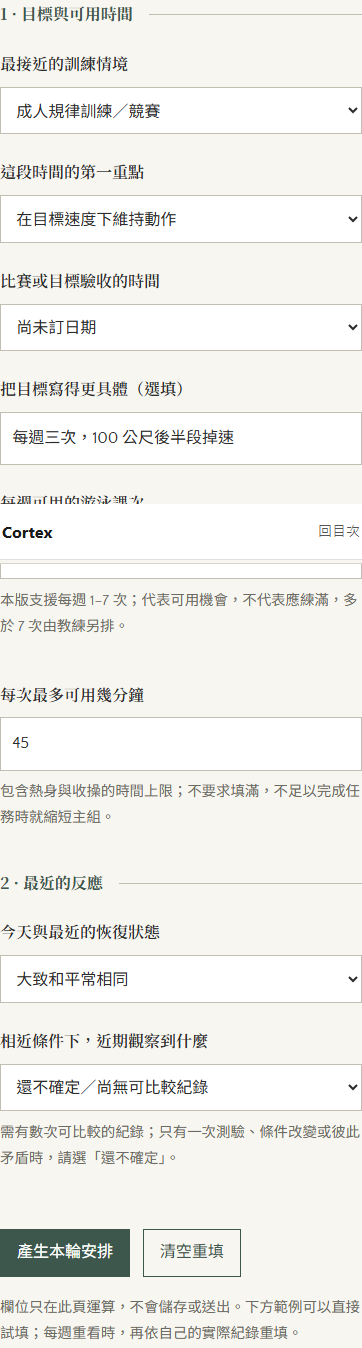
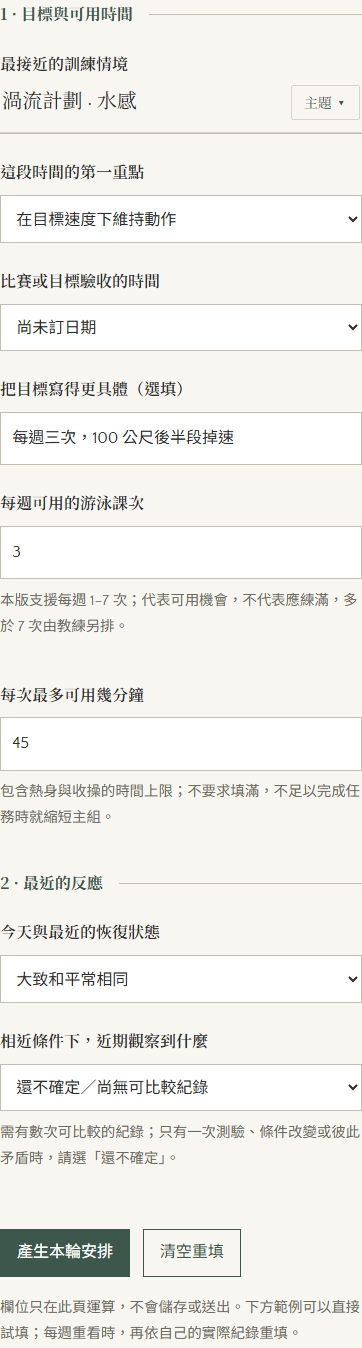
Record public periodization validation and completed recovery

diff --git a/tools/audit_periodization_planner.js b/tools/audit_periodization_planner.js
@@ -168,7 +168,7 @@ check('Reject missing/unknown enum, noninteger, blank and out-of-range resources
     assert.equal(await page.evaluate(() => window.bad), undefined);
     checks.push('User goal is rendered as text, never executable HTML');
     await host.locator('[data-planner-example="adult-three"]').click();
-    await host.locator('[data-planner-result]').screenshot({ path: path.join(destination, 'desktop-result.png'), style: 'header { visibility: hidden !important; }' });
+    await host.locator('[data-planner-result]').screenshot({ path: path.join(destination, 'desktop-result.png'), style: '.site-nav { visibility: hidden !important; }' });
 
     // Keyboard through all controls, including the static fallback table.
     await host.locator('[name=population]').focus();
@@ -189,8 +189,8 @@ check('Reject missing/unknown enum, noninteger, blank and out-of-range resources
       assert.ok(metrics.targets);
       checks.push(width + 'px: no page overflow; button targets at least 44px');
       if (width === 390) {
-        await host.locator('form').screenshot({ path: path.join(destination, 'mobile-form.png'), style: 'header { visibility: hidden !important; }' });
-        await host.locator('[data-planner-result]').screenshot({ path: path.join(destination, 'mobile-result.png'), style: 'header { visibility: hidden !important; }' });
+        await host.locator('form').screenshot({ path: path.join(destination, 'mobile-form.png'), style: '.site-nav { visibility: hidden !important; }' });
+        await host.locator('[data-planner-result]').screenshot({ path: path.join(destination, 'mobile-result.png'), style: '.site-nav { visibility: hidden !important; }' });
       }
     }
     await page.addStyleTag({ content: 'html { font-size: 200%; }' });

diff --git a/HANDOFF.md b/HANDOFF.md
@@ -1,6 +1,6 @@
 # HANDOFF — my-site (Cortex)
 
-## 週期決策工具已恢復並通過本機驗收（2026-09-10）
+## 週期決策工具已恢復並部署（2026-09-10）
 
 沿使用者「好，試試著做看看吧」及本次要求接續，找回前輪全部週期相關變更。中斷在 08:05 驗收腳本直接比對 `zones.yaml` 原文；資料同步本身正確，差異只來自既有 `unfold_cjk` 中文折行清理。已修驗收，並在 `C:/claudehome/tmp/periodization-recovery-2026-09-10/` 備份兩 repo 的 29 個原始變更檔。
 
@@ -8,7 +8,9 @@
 
 本機驗收已完成：Hugo 170 頁；canonical 0 ERROR／140 WARN；48 個 ID 與六份同步資料一致；8,820 條件組合／21 項瀏覽器驗收（390/320px、大字、鍵盤、無 JS、複製 fallback、失效結果清除、使用者文字轉義、來源及資料庫落點）全通過。四個新目錄 anchor 均存在；已目視手機表單與桌面結果。證據在 `research/periodization-planner-2026-09-10/`，上游執行紀錄在 `TheVortexProject/plans/periodization-planner-2026-09-10.md`。
 
-待辦：提交並核對 CI／正式站。先推 my-site，再推 canonical，防止自動同步使用舊 allowlist。`WinError` 為既存空檔，不納入本批。下方兩冊教材的踝足工作仍是獨立待辦，本輪沒有啟動。
+my-site 實作 `a37790963e2922b9f2cbd80d2017287ee67a2c90`、上游 `748756ffc4867767ba0399ce6f0a2ba7a655f670` 已依序推送。[網站部署 CI](https://github.com/Hangsau/cortex/actions/runs/34452544465) 與 [上游同步 CI](https://github.com/Hangsau/TheVortexProject/actions/runs/34452546812) 均按完整 SHA 確認成功。[正式工具](https://hangsau.github.io/cortex/vortex/periodization/#planner) 21/21 與 8,820 組驗收通過；內嵌設定、公開 CSS／JS 與本機一致。證據見 `public-validation.json`、`public-assets.json`、`ci-verification.json`；截圖排除長元件擷取時的固定導覽遮擋。
+
+本批完成，後續依試用反應修訂模型。`WinError` 為既存空檔，不納入本批。下方兩冊教材的踝足工作仍是獨立待辦，本輪沒有啟動。
 
 ## 兩冊膝關節詳解已部署（2026-09-10）
 
